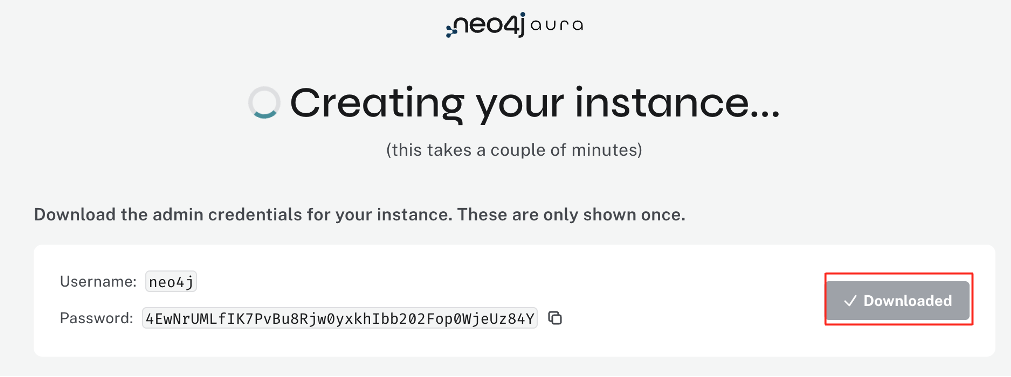
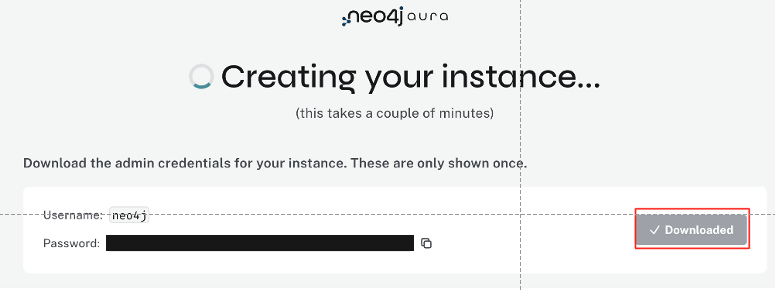
Refine README

diff --git a/README.md b/README.md
@@ -58,8 +58,9 @@ COVID-19 논문 데이터는 [kaggle](https://www.kaggle.com/code/xhlulu/cord-19
 ![Alt text](./assets/neo4j_setup.png)
 6. .txt 파일이 **`Downloads`** 디렉토리에 있는지, 다음과 같은 정보를 포함하는지 확인
 ![Alt text](./assets/neo4j_credentials.png)
-7. 페이지 로딩 완료 시 **`Dashboards`** 클릭 후 Dashboard를 Instance와 연결하기
-![Alt text](./assets/connect_dashboard.png)
+
+페이지 로딩에 시간이 걸리니 다음 단계로 계속 진행하시면 됩니다.
+
 ---
 ### 3. Google Gemini API 키 가져오기
 
@@ -77,8 +78,8 @@ COVID-19 논문 데이터는 [kaggle](https://www.kaggle.com/code/xhlulu/cord-19
 6. 생성된 API Key 안전한 곳에 복사하여 **쉽게 접근할 수 있는 곳에 저장하고 다른 사람과 공유하지 마십시오.**
 ![Alt text](./assets/get_api_key_4.png)
 
-> **주의:** Google Gemini API Gemini Flash 2.5 모델 사용 시 무료 할당량으로 분당 10회, 일일 250회 요청 제한이 있습니다.
-> **참고:** Google에서 무료로 90일간 제공하는 $300 달러 크레딧을 이용할 수 있습니다. 관심 있으신 분은 실습 종료 후에 이용 바랍니다.
+> **주의:** Google Gemini API Gemini Flash 2.5 모델 사용 시 무료 할당량으로 분당 10회, 일일 250회 요청 제한이 있습니다.  
+> **참고:** [Google Cloud](https://cloud.google.com/free?hl=ko&_gl=1*1km53bs*_ga*MTc0NDIwOTA4NC4xNzUyNDUwOTIx*_ga_WH2QY8WWF5*czE3NTYyNjQ4NzYkbzEyJGcwJHQxNzU2MjY0ODc2JGo2MCRsMCRoMA..)에서 무료로 90일간 제공하는 $300 달러 크레딧을 이용할 수 있습니다. 관심 있으신 분은 실습 이후에 이용 바랍니다.
 ---
 ## 설치
 **의존성(패키지를 실행시키기 위한 패키지) 설치**를 위해 **`uv`** 사용을 권장합니다. **`uv`** 를 설치하고 가상 환경을 활성화하십시오.  
@@ -145,6 +146,12 @@ streamlit run app.py
    - 마우스 휠을 사용하여 확대/축소
    - 특정 노드와 엣지에 대해 그래프 필터링
 
+### Neo4j 콘솔에서 지식 그래프 생성 결과 확인
+1. Neo4j aura console에서 **`Dashboards`** 클릭 후 Dashboard를 Instance와 연결하기
+![Alt text](./assets/connect_dashboard.png)
+
+2. Cypher text
+
 ## 작동 원리
 
 이 애플리케이션은 **`Google Gemini API`** 를 통해 Gemini-2.5-Flash 모델에 접근하고, **`LangChain`** 의 LLMGraphTransformer를 사용하여 텍스트에서 지식 그래프를 생성합니다:
@@ -174,4 +181,8 @@ streamlit run app.py
 
 이 프로젝트는 MIT 라이선스 하에 라이선스됩니다 - 소프트웨어의 자유로운 사용, 수정 및 배포를 허용하는 허용적 오픈 소스 라이선스입니다.
 
-자세한 내용은 [MIT 라이선스](https://opensource.org/licenses/MIT) 문서를 참조하세요.
+자세한 내용은 [MIT 라이선스](https://opensource.org/licenses/MIT) 문서를 참조하세요.  
+
+## 연락처
+추가로 궁금한 사항이 있으시다면 **`bspark@insilicogen.com`** 이메일로 말씀해주시면 최대한 답변해드리겠습니다.  
+편하게 연락주세요🤗
